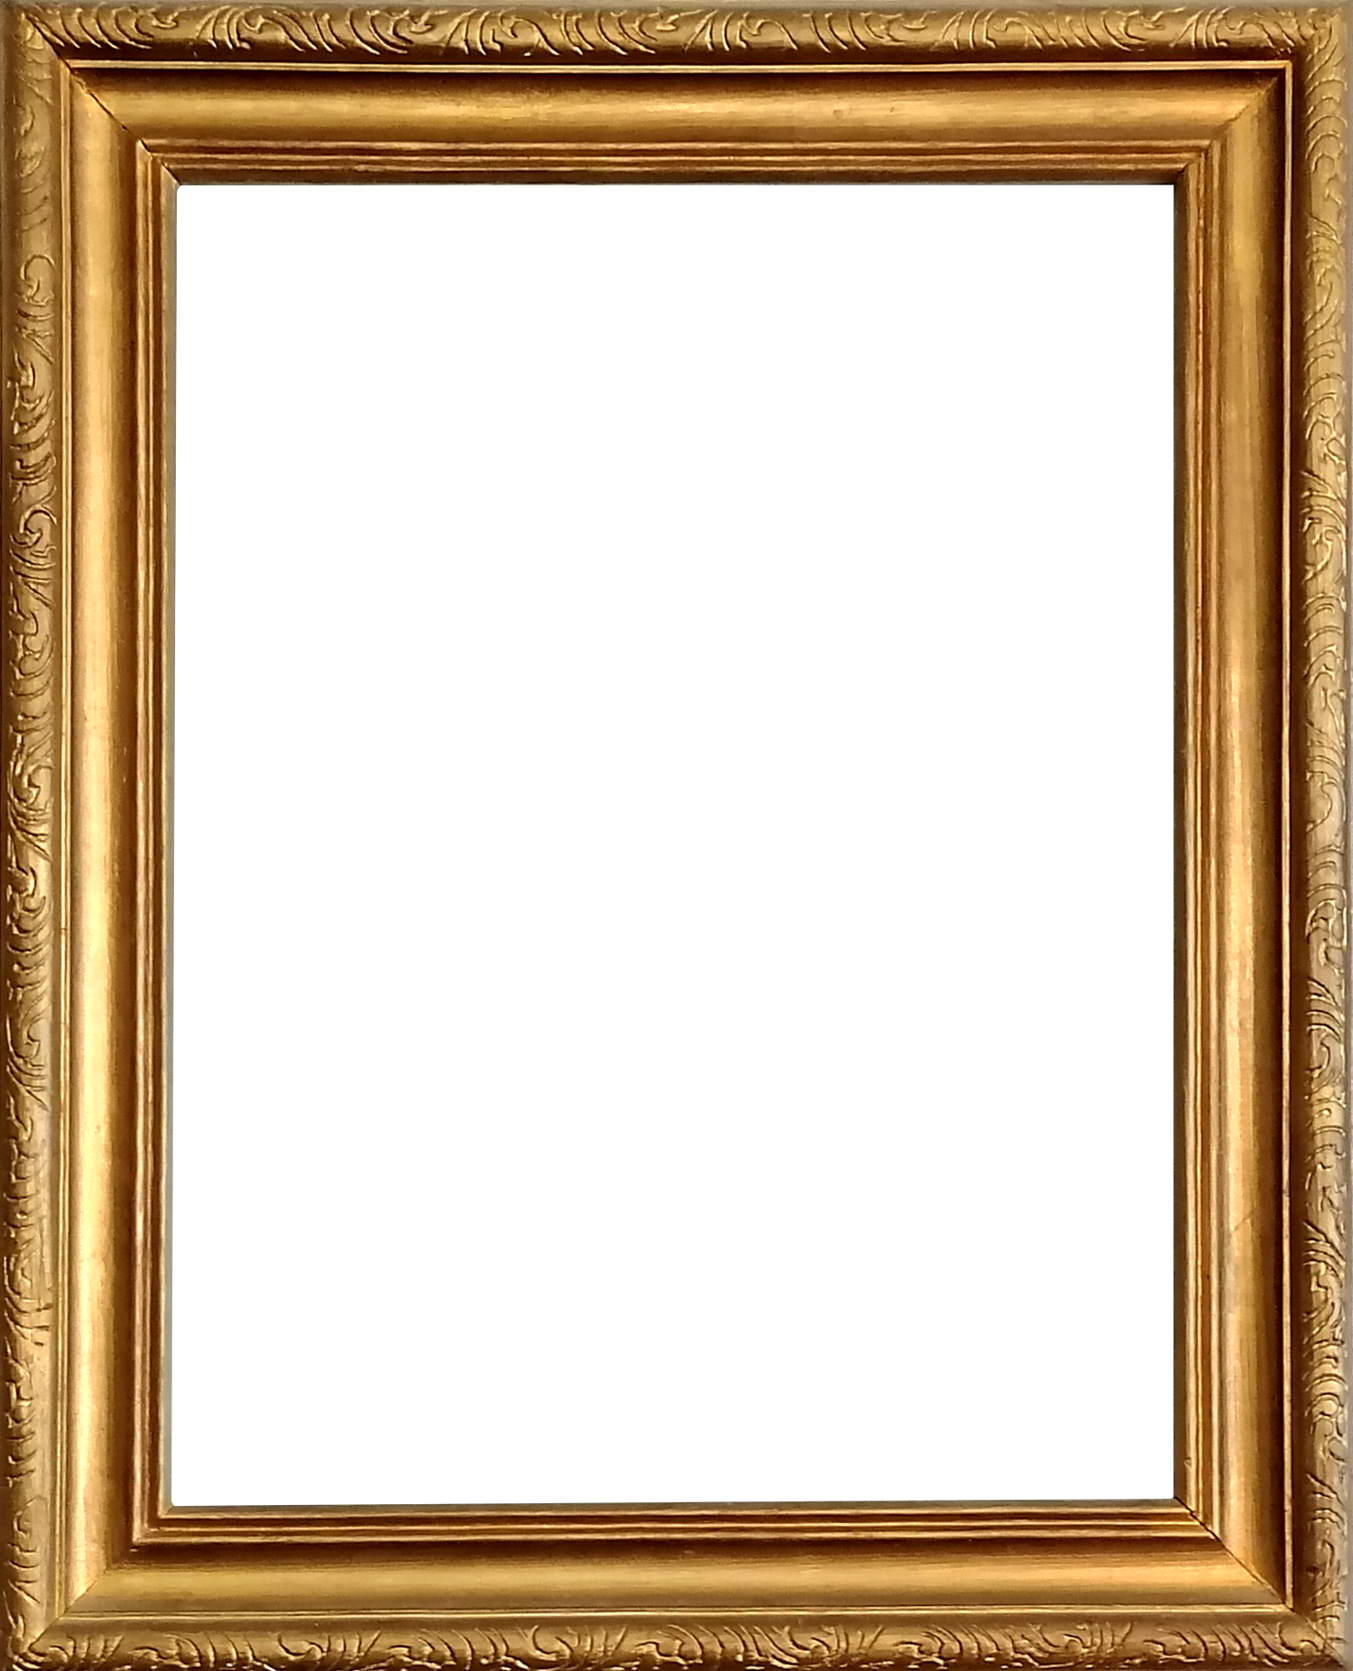
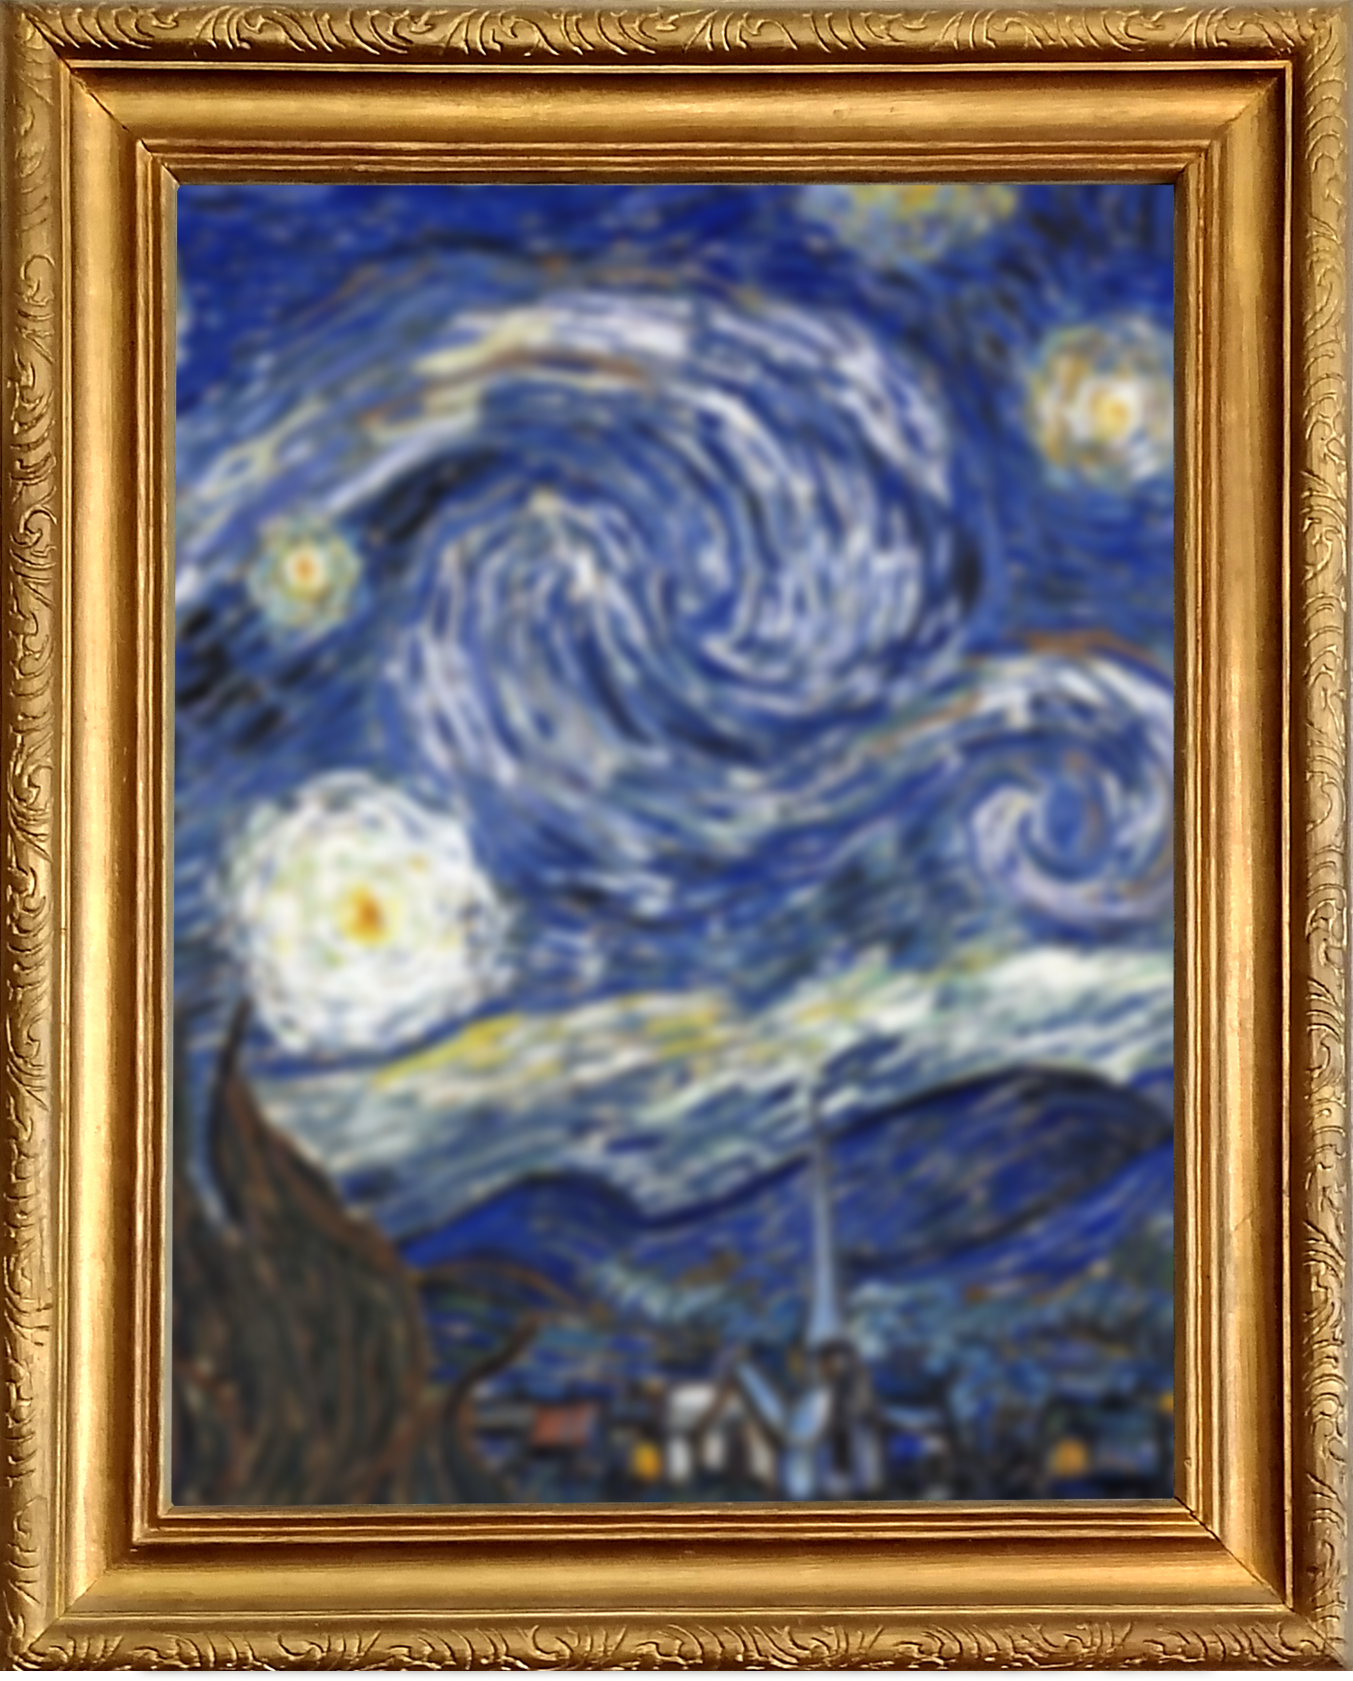
Move painting frame to server component

diff --git a/src/app/(image-generation)/generate-image/_components/PaintingUploader.tsx b/src/app/(image-generation)/generate-image/_components/PaintingUploader.tsx
@@ -1,7 +1,7 @@
-"use client";
+"use client"
 
 import { UploadDropzone, UploadDropzoneConfig } from '@bytescale/upload-widget-react';
-import Image from 'next/image';
+import { PropsWithChildren } from 'react';
 
 import { interFont } from '@/app/lib/fonts';
 
@@ -20,15 +20,10 @@ const options = {
   }
 } satisfies UploadDropzoneConfig;
 
-export function PaintingUploader() {
+export function PaintingUploader({ children }: PropsWithChildren) {
   return (
-    <div className="flex justify-center items-center relative mt-6 h-[600px] w-[450px]">
-      <Image
-        className="z-20"
-        src="/painting-frame.png"
-        alt="Portrait Frame"
-        fill
-      />
+    <div className="w-full h-full flex justify-center items-center relative">
+      {children}
 
       <div className="absolute z-50">
         <UploadDropzone options={options}
@@ -38,13 +33,6 @@ export function PaintingUploader() {
           height="375px" 
         />
       </div>
-
-      <Image
-        className="z-10 blur-lg"
-        src="/starry-night.webp"
-        alt="Generated Picture Example"
-        fill
-      />
     </div>
   );
 }

diff --git a/src/app/(image-generation)/generate-image/_components/GenerateImageForm.tsx b/src/app/(image-generation)/generate-image/_components/GenerateImageForm.tsx
@@ -1,11 +1,24 @@
-'use client';
+import Image from 'next/image';
 
 import { PaintingUploader } from './PaintingUploader';
+import paintingFrame from "../../../../../public/painting-frame.png";
 
 export function GenerateImageForm() {
   return (
-    <form className="z-30 flex flex-col items-center justify-center space-x-2 shadow-md">
-      <PaintingUploader />
+    <form className="px-2 mt-5 flex flex-col items-center justify-center space-x-2 shadow-md">
+      <PaintingUploader>
+        <Image
+          src={paintingFrame}
+          alt="Painting frame"
+          placeholder="blur"
+          width={500}
+          height={600}
+          style={{
+            maxWidth: "100%",
+            height: "auto",
+          }}     
+        />
+      </PaintingUploader>
     </form>
   );
 }

diff --git a/src/app/layout.tsx b/src/app/layout.tsx
@@ -17,7 +17,7 @@ export const metadata: Metadata = {
     default: 'Starry',
   },
   description:
-    'Generate pictures based on Van Gogh arts via AI model. Powered by Vercel and Replicate.',
+    "Generate pictures based on Van Gogh's Starry Night. Powered by Vercel and Replicate.",
   // TODO - Update URL with correct domain
   // TODO - Implement OG social image
   metadataBase: new URL('https://starry.vercel.app'),
@@ -58,7 +58,7 @@ function Header() {
       </div>
 
       <p className="z-30 px-4 pt-6 text-center text-xl font-light text-white [text-wrap:balance] md:text-2xl">
-        Generate pictures based on Van Gogh arts via AI model.
+        Generate pictures based on Van Gogh&apos;s Starry Night.
       </p>
     </header>
   );
